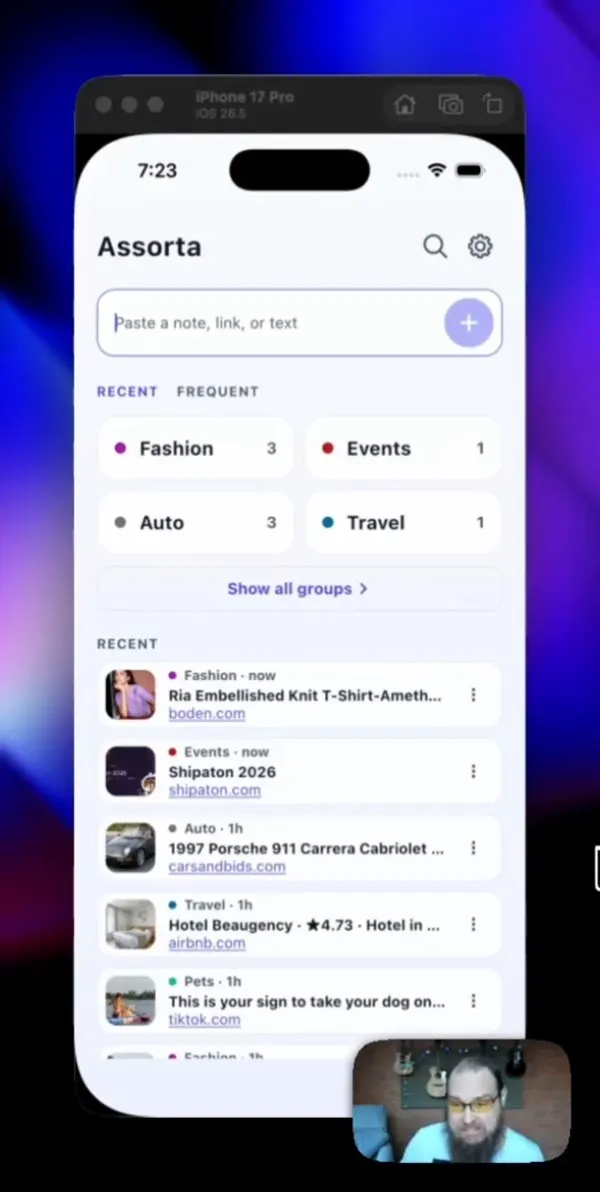
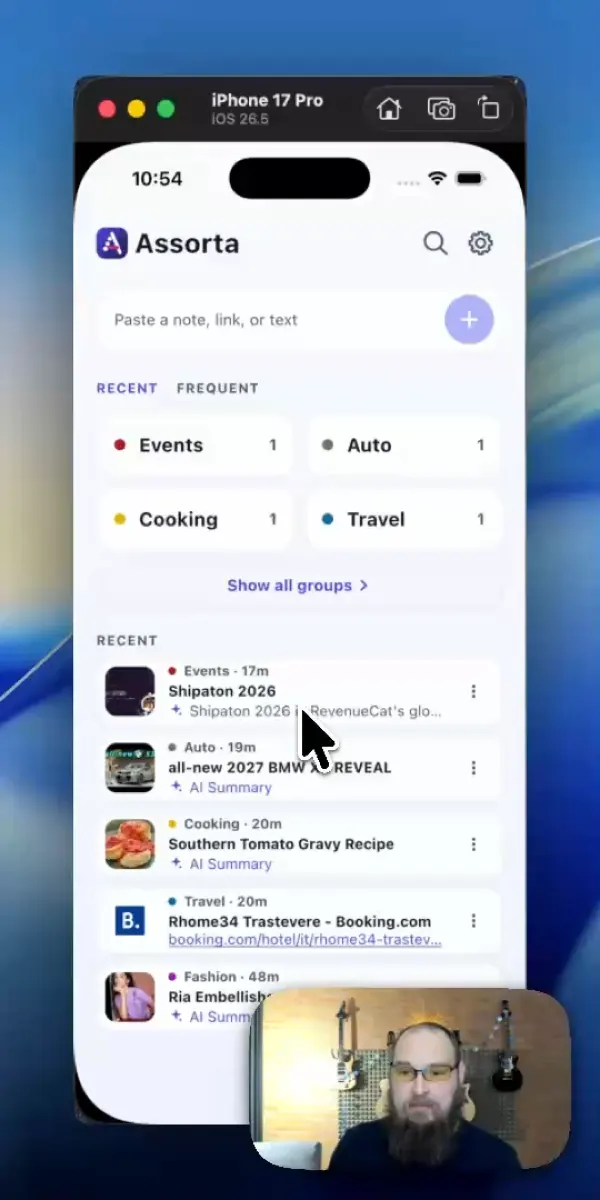
[Site] Point the demo at the new 0:38 Short and refresh its poster

diff --git a/index.html b/index.html
@@ -500,10 +500,10 @@
   /* Click-to-play facade: the <iframe> is built by script on click, never in the markup.
      A live embed pulls ~600KB of YouTube JS and sets its cookies on every visitor,
      including the ones who never press play - and this page carries no consent banner
-     to cover that. The box is the source video's own 544x1080, not 9:16: the Short is a
+     to cover that. The box is the source video's own 540x1080, not 9:16: the Short is a
      simulator recording and is taller than a phone, so a 9:16 frame would letterbox it. */
   .yt {
-    position: relative; aspect-ratio: 544 / 1080; overflow: hidden;
+    position: relative; aspect-ratio: 540 / 1080; overflow: hidden;
     border-radius: 26px; background: #000;
     box-shadow: 0 30px 60px -30px var(--app-phone-shadow), 0 0 0 1px var(--app-phone-ring);
   }
@@ -800,18 +800,18 @@
 <section class="video" id="demo">
   <div class="wrap">
     <div class="yt">
-      <img src="screens/img/demo-poster.webp" alt="" width="600" height="1192" loading="lazy" decoding="async">
-      <button class="yt-btn" id="yt-btn" type="button" aria-label="Play the Assorta demo video, 1 minute 19 seconds">
+      <img src="screens/img/demo-poster.webp" alt="" width="600" height="1200" loading="lazy" decoding="async">
+      <button class="yt-btn" id="yt-btn" type="button" aria-label="Play the Assorta demo video, 38 seconds">
         <span class="play"><svg viewBox="0 0 24 24" aria-hidden="true"><path d="M8 5.2v13.6L19 12z"/></svg></span>
       </button>
-      <span class="yt-dur" aria-hidden="true">1:19</span>
+      <span class="yt-dur" aria-hidden="true">0:38</span>
     </div>
     <div class="video-copy">
       <p class="kicker">Demo</p>
       <h2>Watch a link land in the right group</h2>
-      <p class="lede">Just over a minute through the app: a link goes in, AI reads it and files it, and it is sitting in the right group when you come looking. Nothing to name, nothing to tag, no folders to keep tidy.</p>
+      <p class="lede">Under forty seconds through the app: a link goes in, AI reads it and files it, and it is sitting in the right group when you come looking. Nothing to name, nothing to tag, no folders to keep tidy.</p>
       <a class="btn btn-lg" href="#get">Get Assorta →</a>
-      <p class="yt-note">Prefer YouTube? <a href="https://www.youtube.com/shorts/PPgkt6AJgl8" target="_blank" rel="noopener">Watch it there ↗</a></p>
+      <p class="yt-note">Prefer YouTube? <a href="https://www.youtube.com/shorts/3O2_t6-izoU" target="_blank" rel="noopener">Watch it there ↗</a></p>
     </div>
   </div>
 </section>
@@ -1220,7 +1220,7 @@
   btn.addEventListener("click", function () {
     var card = btn.parentNode;
     var frame = document.createElement("iframe");
-    frame.src = "https://www.youtube-nocookie.com/embed/PPgkt6AJgl8?autoplay=1&rel=0&playsinline=1";
+    frame.src = "https://www.youtube-nocookie.com/embed/3O2_t6-izoU?autoplay=1&rel=0&playsinline=1";
     frame.title = "Assorta demo";
     frame.allow = "accelerometer; autoplay; encrypted-media; gyroscope; picture-in-picture; web-share";
     frame.allowFullscreen = true;
